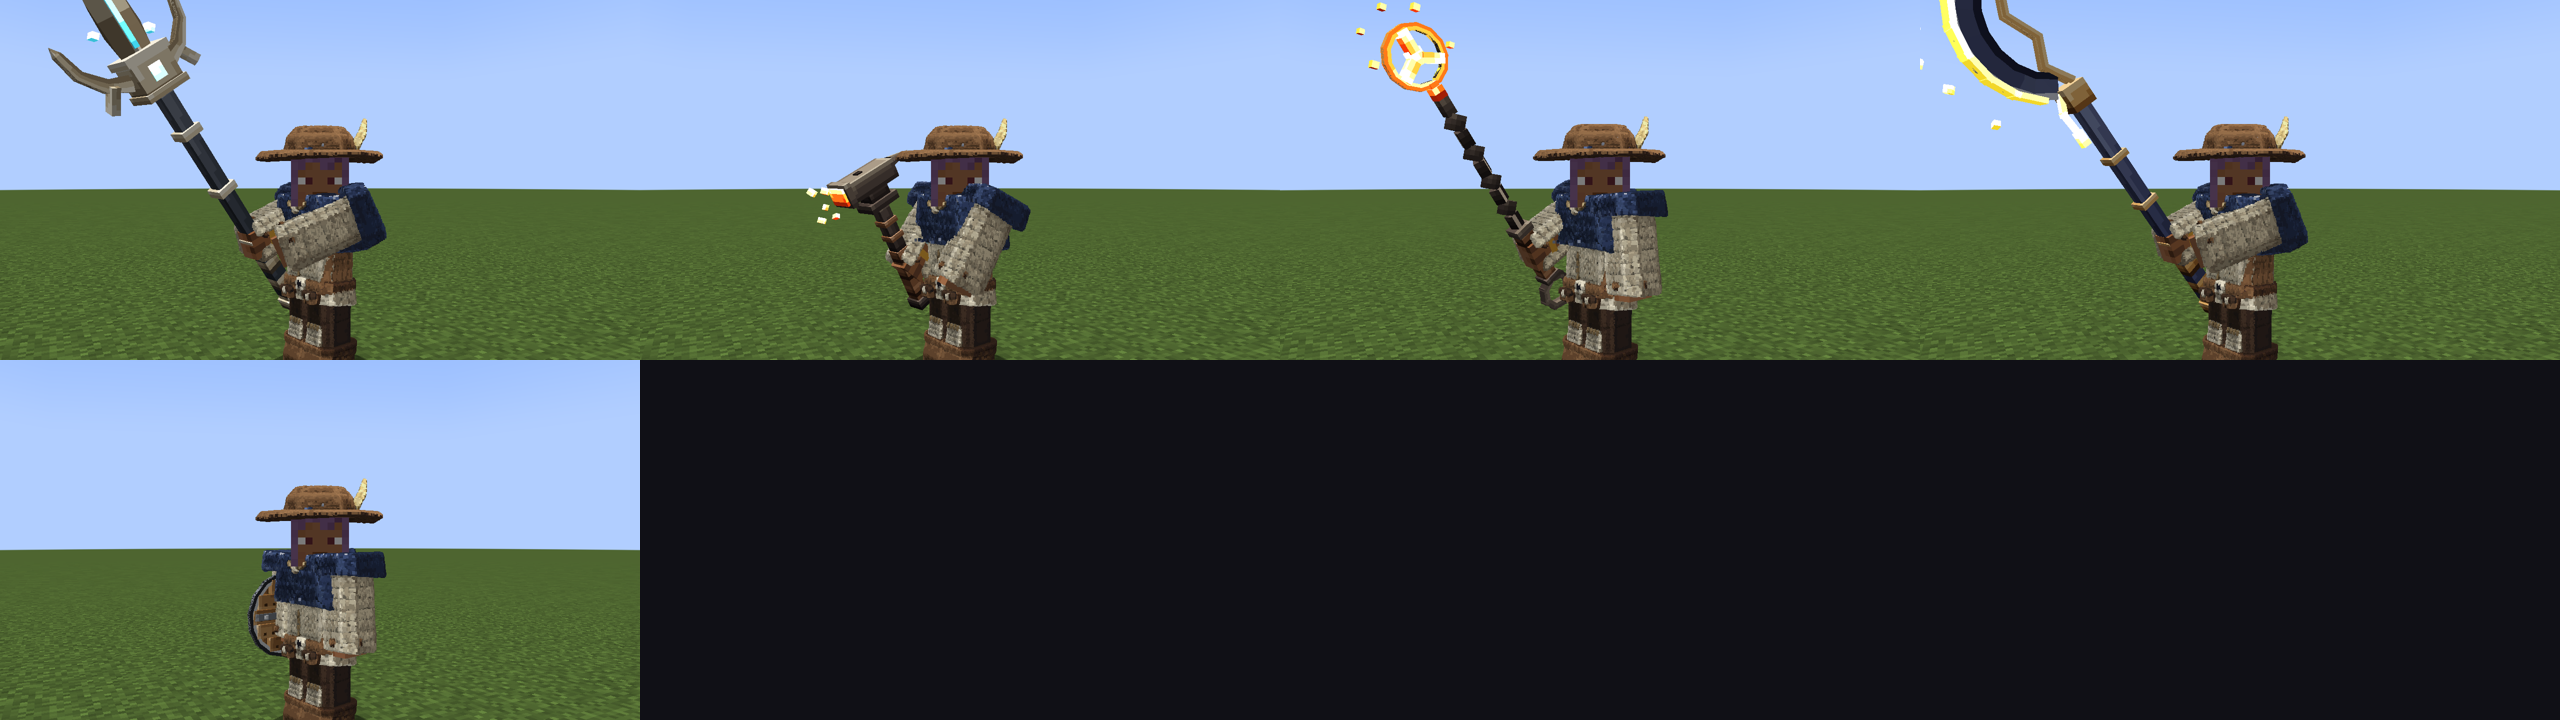
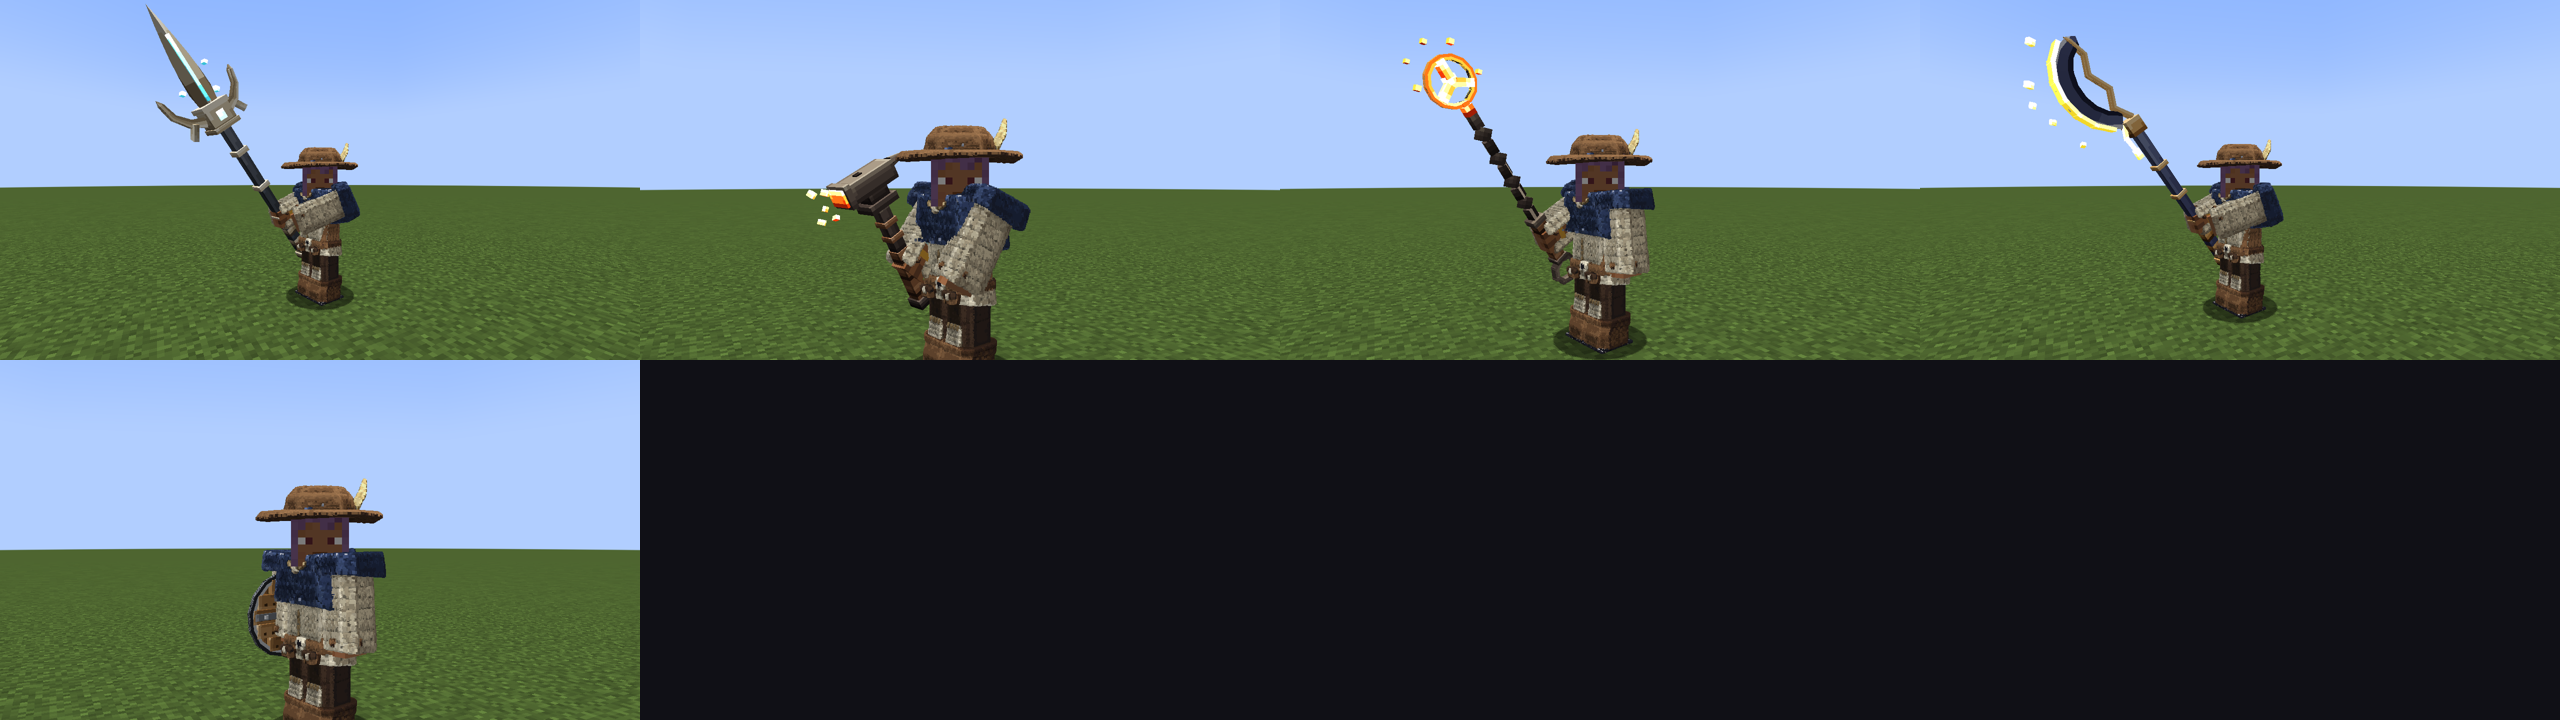
series_check: pick the close-shot fov from each model's height so tall polearms are no longer cut off at the top; other series re-shot

diff --git a/docs/HANDOFF.md b/docs/HANDOFF.md
@@ -190,7 +190,7 @@
   - 決まったこと: 骨は灰色をやめて青緑寄りの `sbone`（abyss_bold.py の RAMPS）。柄は `spine_haft`（杖・鎚）/`sword_grip`（剣・短剣）、`staff2`、八角の円柱 `drum`。品の Model は `M(id, SB)`（縁取り・巻きも sbone）。飾りは表と裏の両方に置く（片側だけは禁止）。
   - 済み: 試作の背骨打ちの鎚（B、49ce01c7d）、鯨のまとまり（底なしの大剣・鯨眼の杖・耳骨の鈴杖・古銛の牙、AAAA、79281a995）。
   - 次: 潮（螺旋貝の大剣・大蛤の鎚・渦潮の杖・海胆の針・沈み鐘の杖）→ 雷（避雷の大剣・雷鼓の鎚・雲籠の杖・雷翼の鉤爪・風鈴の鈴杖）→ 火（灰喰いの鎌・溶岩流の大剣・火山弾の杖・坩堝の鈴杖・熔け滴の短剣）→ 五章（灯り番の剣・鼓動の短剣・沈め錨・灯籠の杖・弔鐘の鈴杖）。階級は GearTierSelfTest（巨神の品=伝説、錨・鼓動=ヒロイック、灯り番の剣・灯籠・弔鐘=エピック）。
-  - 弓 5 本は形を変えない。骨の色は 11/20 に sbone へ塗り直して取り込み済み（e69b52ee4、docs/review/abyss_bows_ingame.png）。ゲーム内の撮影は高い頭が上で切れる（直していない）。
+  - 弓 5 本は形を変えない。骨の色は 11/20 に sbone へ塗り直して取り込み済み（e69b52ee4、docs/review/abyss_bows_ingame.png）。ゲーム内の撮影で高い頭が上で切れていたのは、11/21 に series_check.sh が模型の高さから画角を決めるようにして直した（高さ 18.5 まで fov 42、それより上は広げる、上限 68）。
   - 2026-11-20 ユーザー「ラフからあんまり見た目変わって無くない？ blockbenchで絶対に直接手入れするようにして」: 取り込みだけで済ませない。品ごとに Blockbench で形（x/y の傾き・メッシュの曲面や細り）と筆の塗り（ひび・縁の光・節）を入れてから書き出す。手を入れた品は .bbmodel が正本（設計ファイルの関数の説明に書く。prep し直さない）。済み: 背骨打ちの鎚（棘をメッシュに、横突起を傾け、棘と椎骨を塗った。前後の比べ `docs/review/abyss_hammer_hand_before_after.png`）。鯨の残り 4 品（大剣・鯨眼の杖・耳骨の鈴杖・古銛の牙）も済み（メッシュは scratchpad の ribbon2.py で頂点を計算して place_mesh、UV は set_mesh_uv で帯の絵 1 枚に割り付けて筆で塗る）。
   - 潮のまとまり（ユーザー離席中に私が選んだ: 螺旋貝の大剣 A・大蛤の鎚 A・渦潮の杖 A・海胆の針 C・沈み鐘の杖 A。理由は会話とコミットに）も清書＋ Blockbench の手入れ済み。
   - 雷のまとまり（離席中なのでラフなしで一案、私が決めた）: 避雷の大剣・雷鼓の鎚・雲籠の杖・雷翼の鉤爪・風鈴の鈴杖。全品 Blockbench で手入れ済み（鎚=樽のメッシュ、杖=籠の柱を 60° ずつ回してスポーク、鉤爪=反った刃のメッシュ、鈴杖=十字の横木と管の傾き）。docs/review/abyss_storm_ingame.png。
